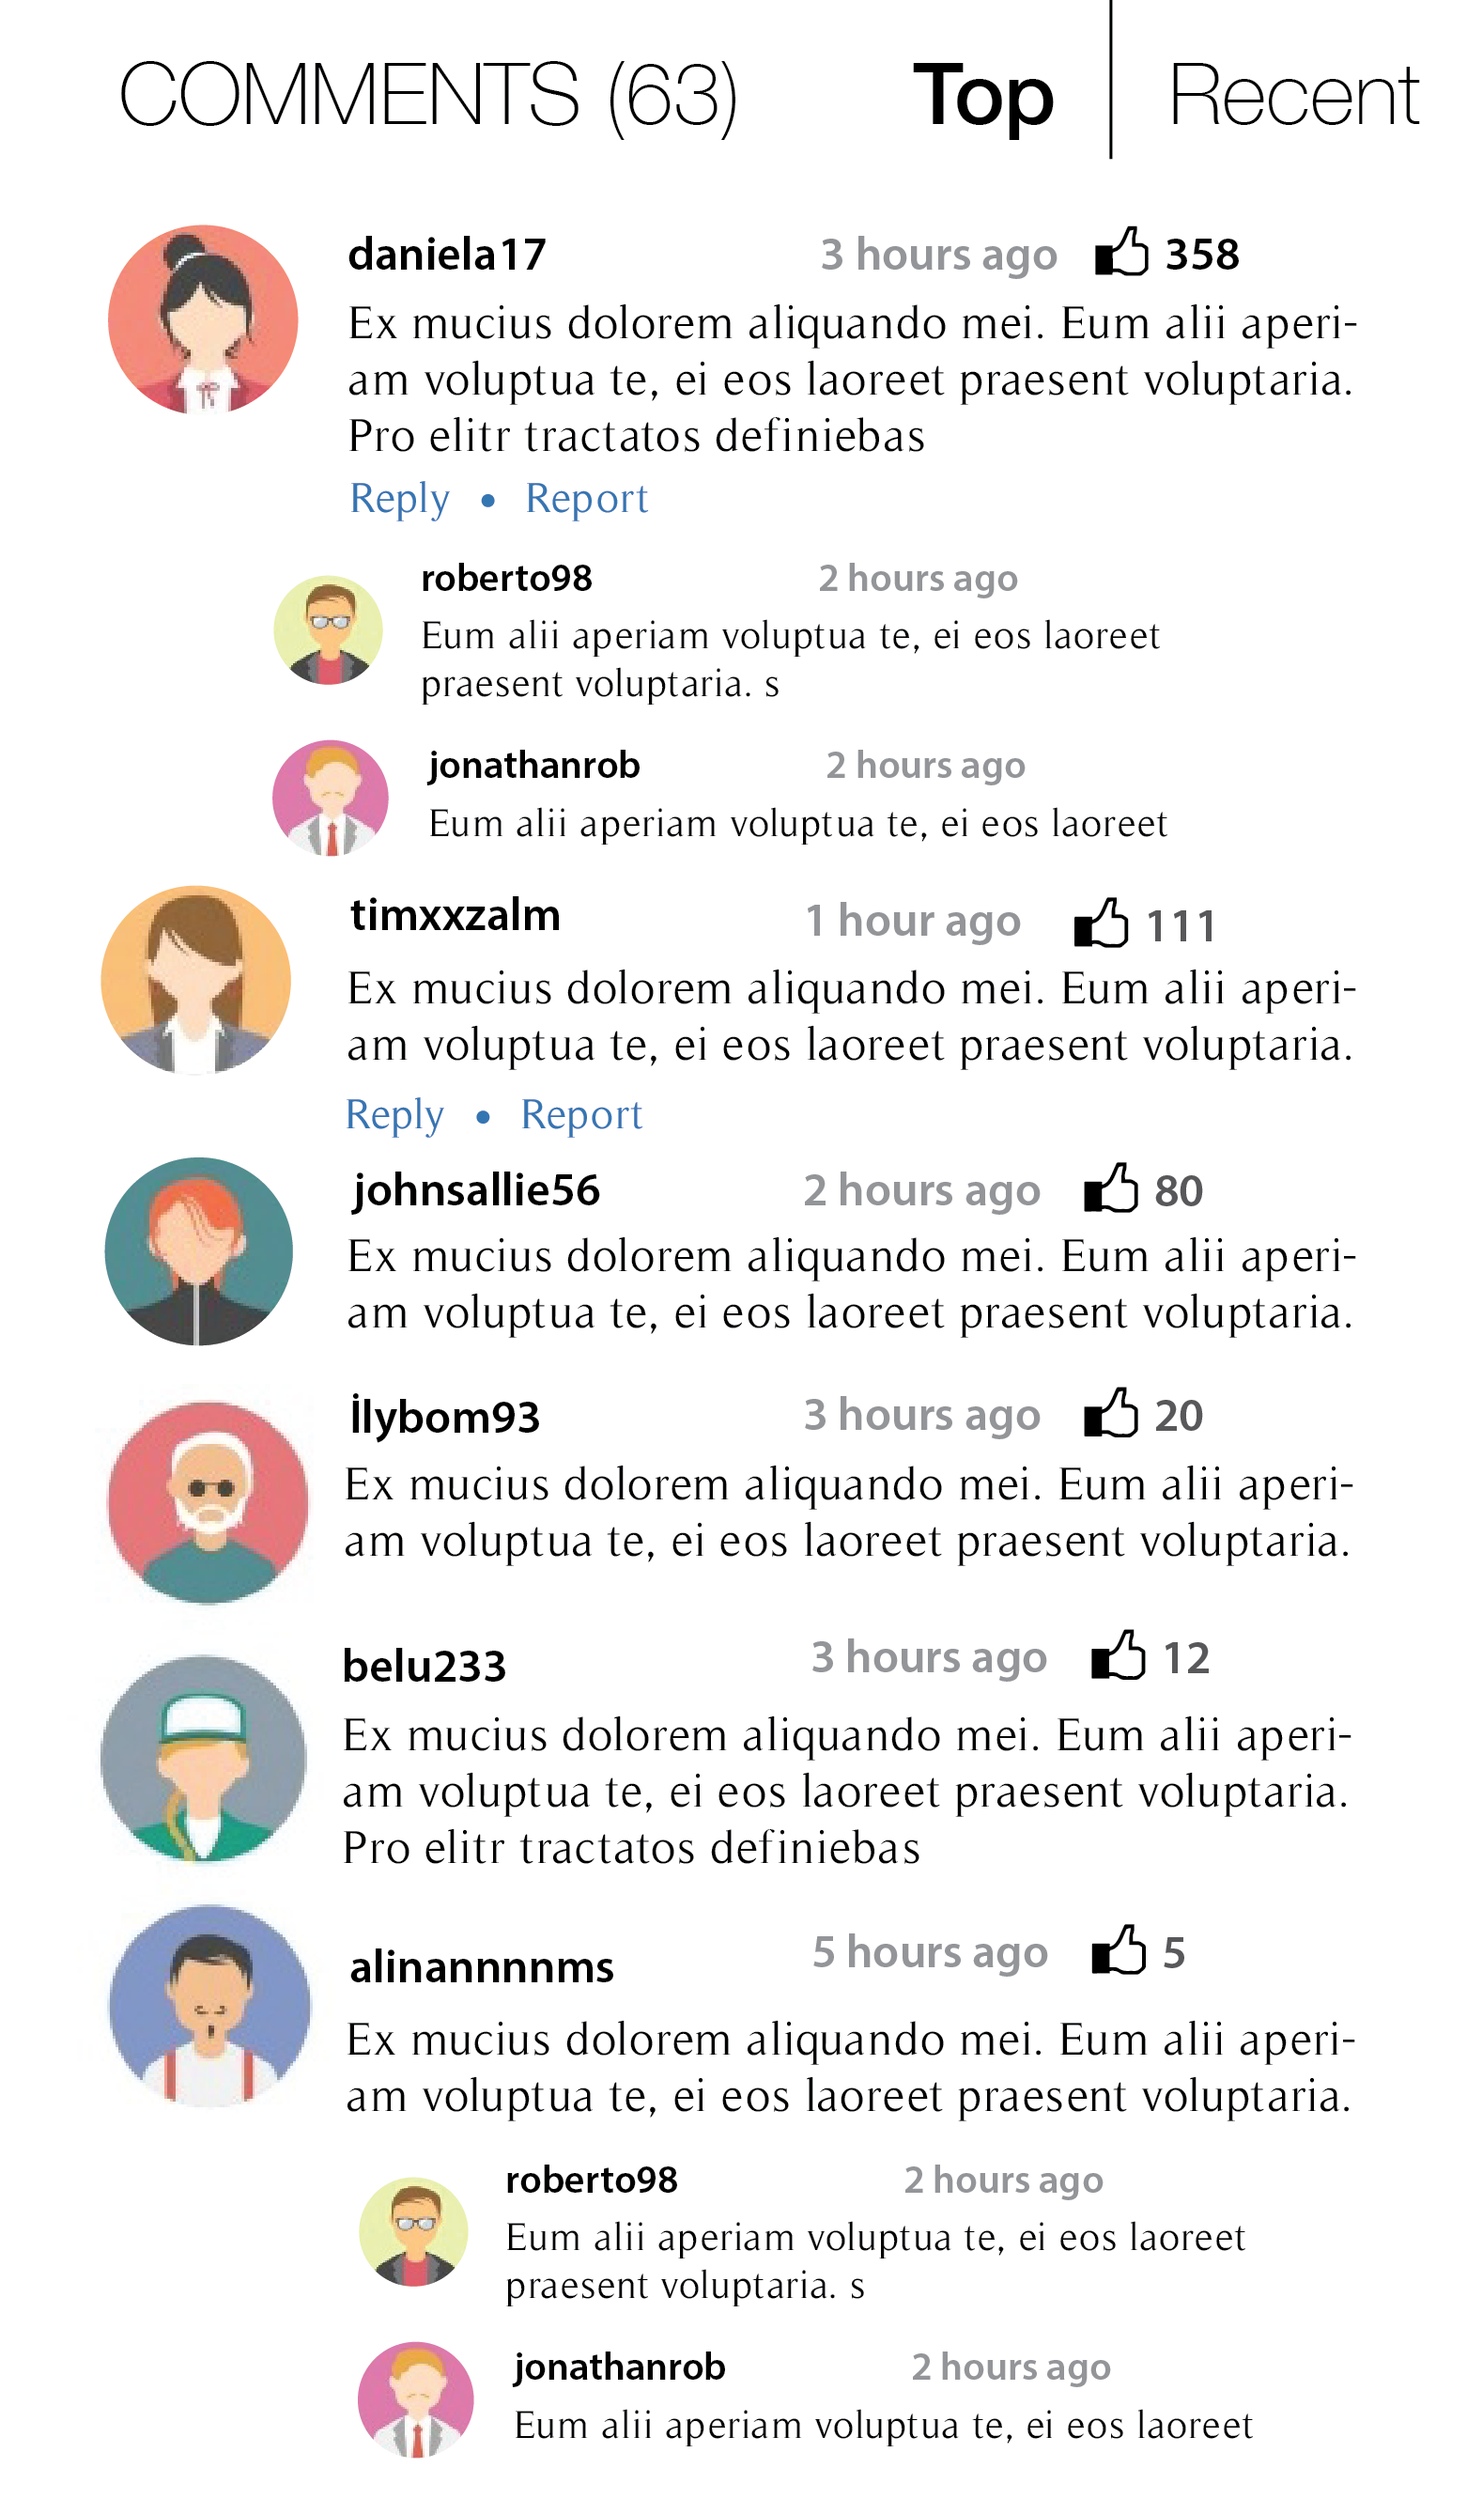
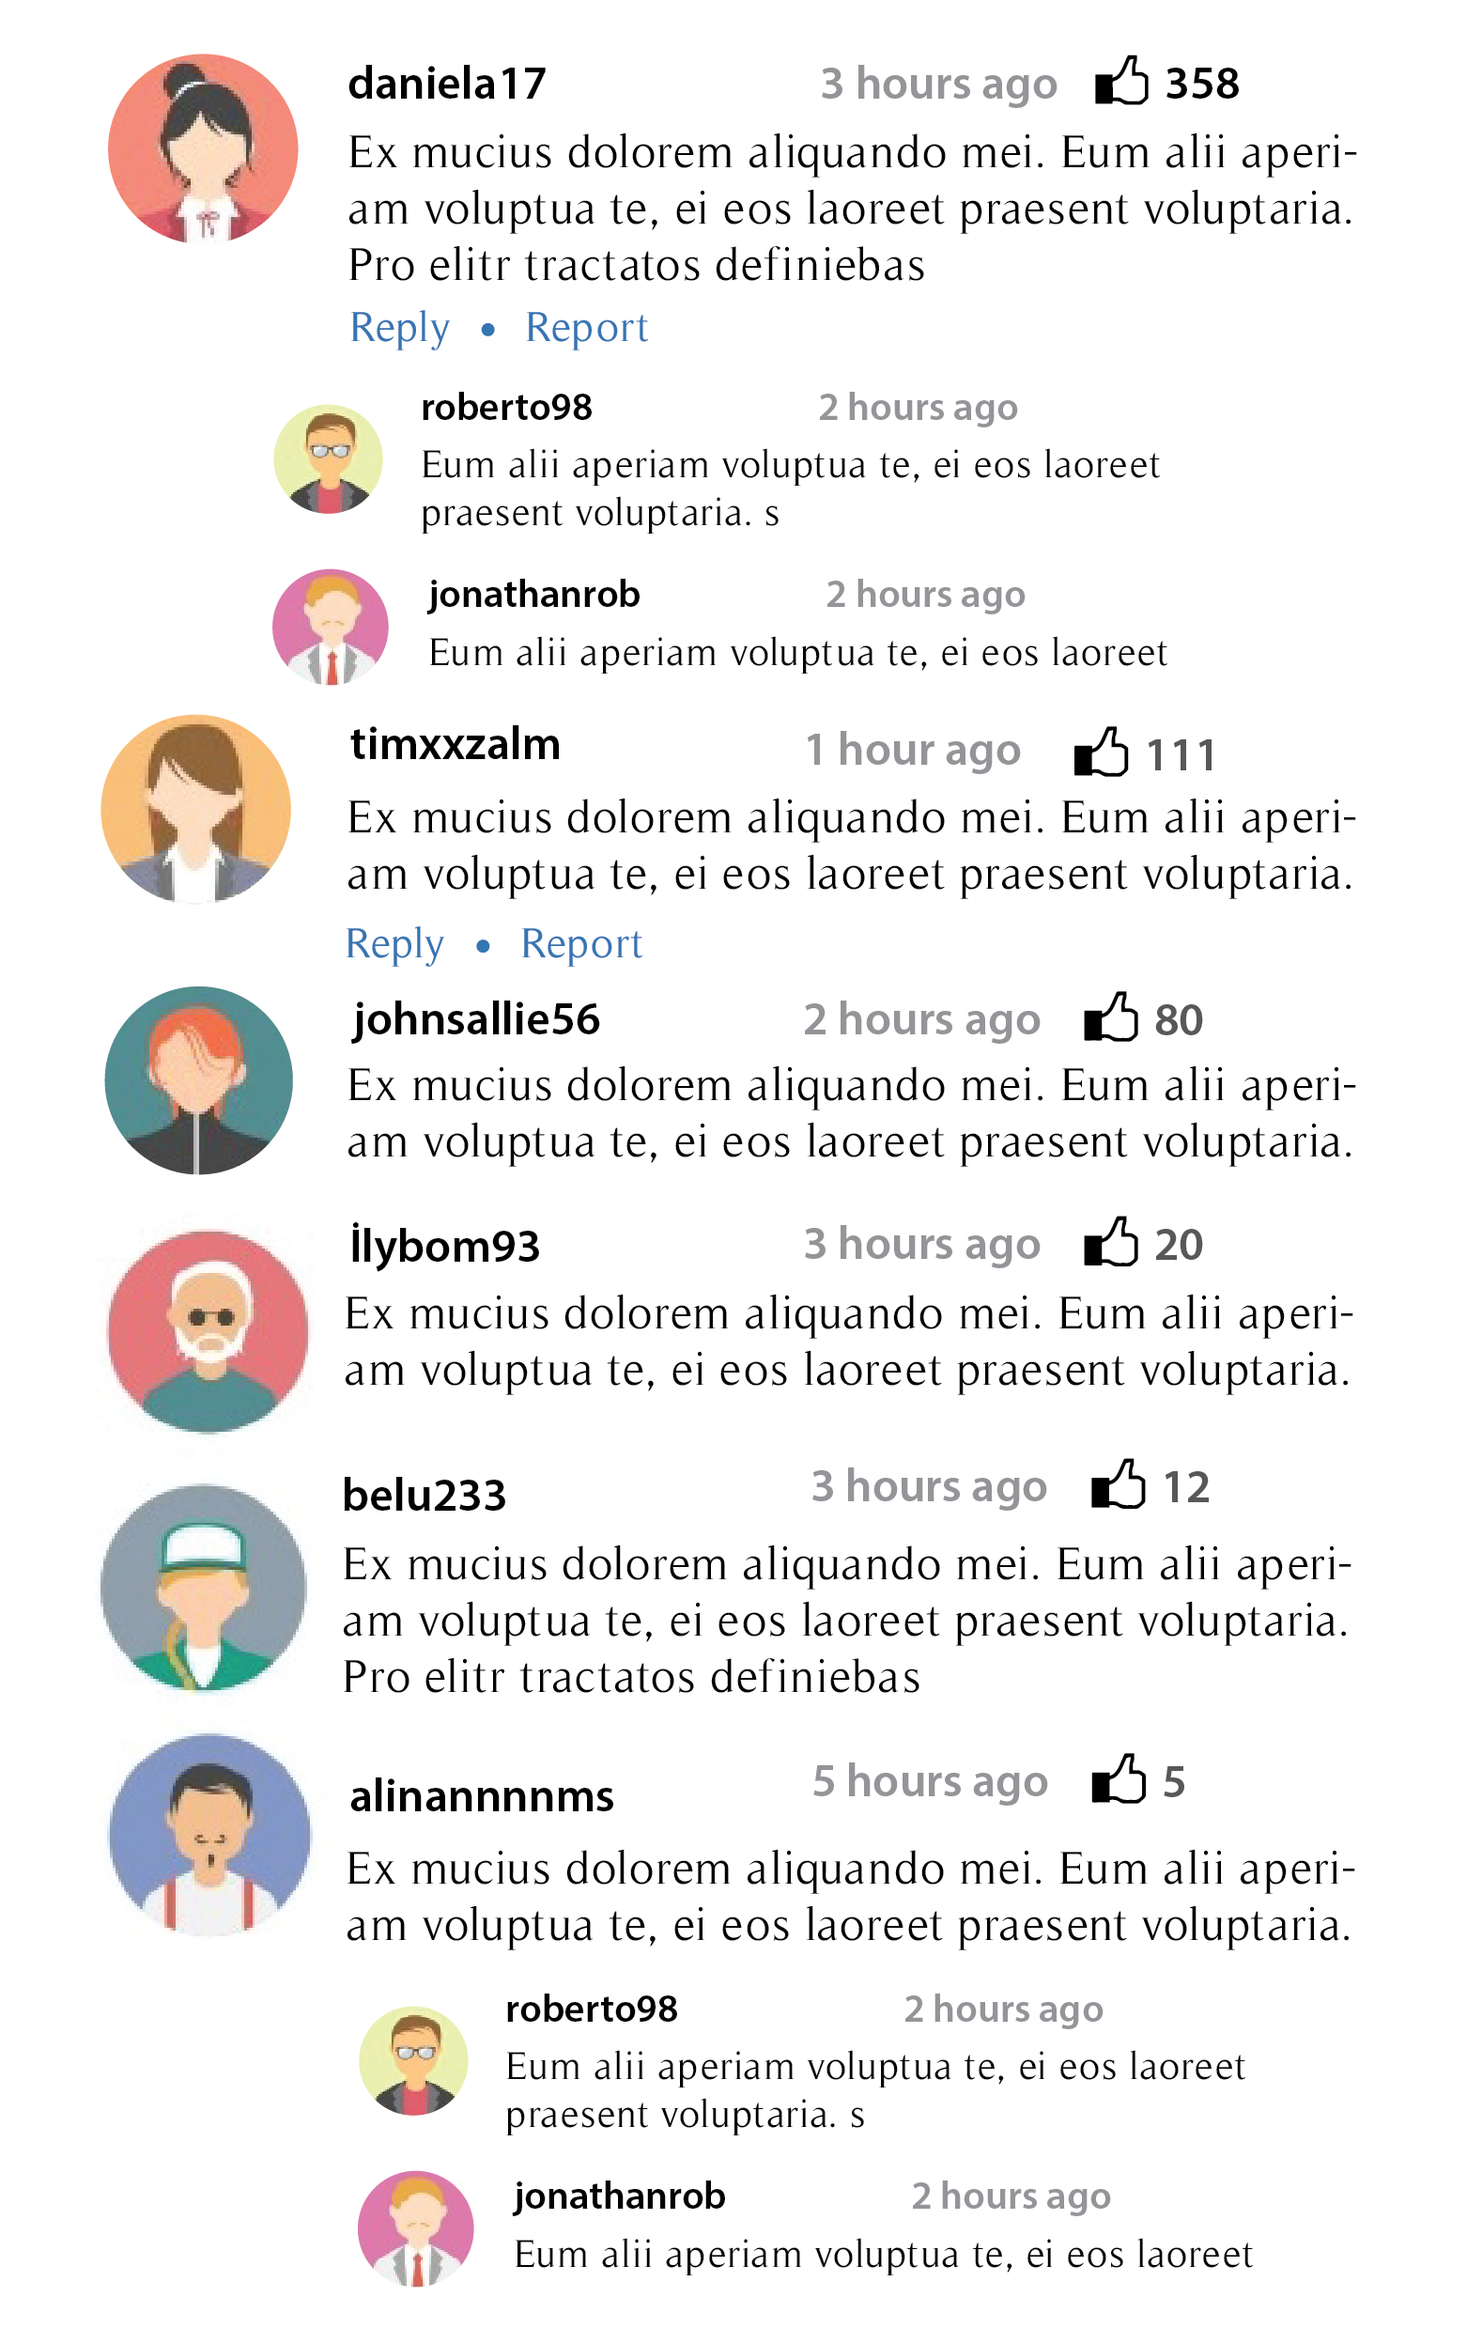
adjusted the styling in the comments page i.e. made it more coherent

Changed region(s): [[0.0615, 0.0, 0.9526, 0.9944], [0.5531, 0.9322, 0.8604, 0.9944], [0.7068, 0.1864, 0.7682, 0.2175]]

diff --git a/prototype.html b/prototype.html
@@ -378,7 +378,7 @@
 		<h2 id="title" class="main-title">Artificial intelligence: ‘We’re like children playing with a bomb’</h2>
 
       <hr class="lines">
-			<h1 class="subheader">Trending Voices</h1>
+			<h1 class="subheader">TRENDING VOICES</h1>
 
  <div class="gallery">
         <!-- for more on HTML5 figure, check: http://html5doctor.com/the-figure-figcaption-elements/ -->
@@ -392,25 +392,34 @@
             <img src="images/voice-3.png" alt=""/>
           </figure>
     </div>
-    <!-- new elements (galleru navigation) -->
+    <!-- new elements (gallery navigation) -->
     <div id="trending-voices-navig">
-       <div id="tv-left" class="tv-navig" ><i class="fa fa-angle-left" aria-hidden="true"></i>
-</div>
+        <div id="tv-left" class="tv-navig" ><i class="fa fa-angle-left" aria-hidden="true"></i>
+        </div>
         <div id="tv-right" class="tv-navig" ><i class="fa fa-angle-right" aria-hidden="true"></i>
-    </div>
+        </div>
     </div>
 	
 		<div id="discussion-poll">
 			<hr class="lines">
-			<h2 class="subheader">Poll results</h2>
+			<h2 class="subheader">POLL RESULTS</h2>
 			<span id="question">Do you think that concerns about AI will take over from global warming as a more imminent threat any time soon?</span>
 			<div class="discussion-results" id="discussion-Yes" >
 				<p class="left">67% No</p>
 				<p class="right"> 33% Yes</p>
 			</div>
 		</div><!-- #discussion-poll -->
+
+ <div id="comments-container">
+		
+			<hr class="lines">
+			<h2 class="comments-header">COMMENTS (62)</h2>
+			<span class="comments-header"> | Recent</span>
+			<span class="comments-header" id="top">Top </span>
+			
 	
 		<img id="comments-img" src="images/commentsonly.png" alt="CommentsDiscussion">
+	</div> <!-- End #comments-container>	-->
 	
 	
 	

diff --git a/css/prototype.css b/css/prototype.css
@@ -605,7 +605,7 @@ li.selected{
     position: relative;
     /* the top values will vary according to the page and will be set via JS */
     
-    font-family: 'Open Sans';
+    font-family: 'LiberationSerif-Regular-webfont';
     color: #666;
     font-size: 13px;
 }
@@ -817,7 +817,7 @@ width: 290px;
 #comments-img {
     width: 100%;
     position: relative;
-    top: 130px;
+    
 
 }
 
@@ -1490,4 +1490,28 @@ input:checked ~ #container-div-trending-voices img{ transform: translateX(-329px
 
 .gallery figure.active-trend{
   opacity: 1;
+}
+
+#comments-container {
+ margin:120px 0px;
+
+}
+
+span.comments-header {
+  float:right;
+  position:relative;
+  top: -20px;
+}
+
+.comments-header{
+  font-size: 19px;
+  /*position:relative;
+  float:left;*/
+  color: #5a5a5a;
+  font-family: 'Open Sans', sans-serif;
+  font-weight: lighter;
+}
+
+#top{
+ font-weight:bold;
 }
